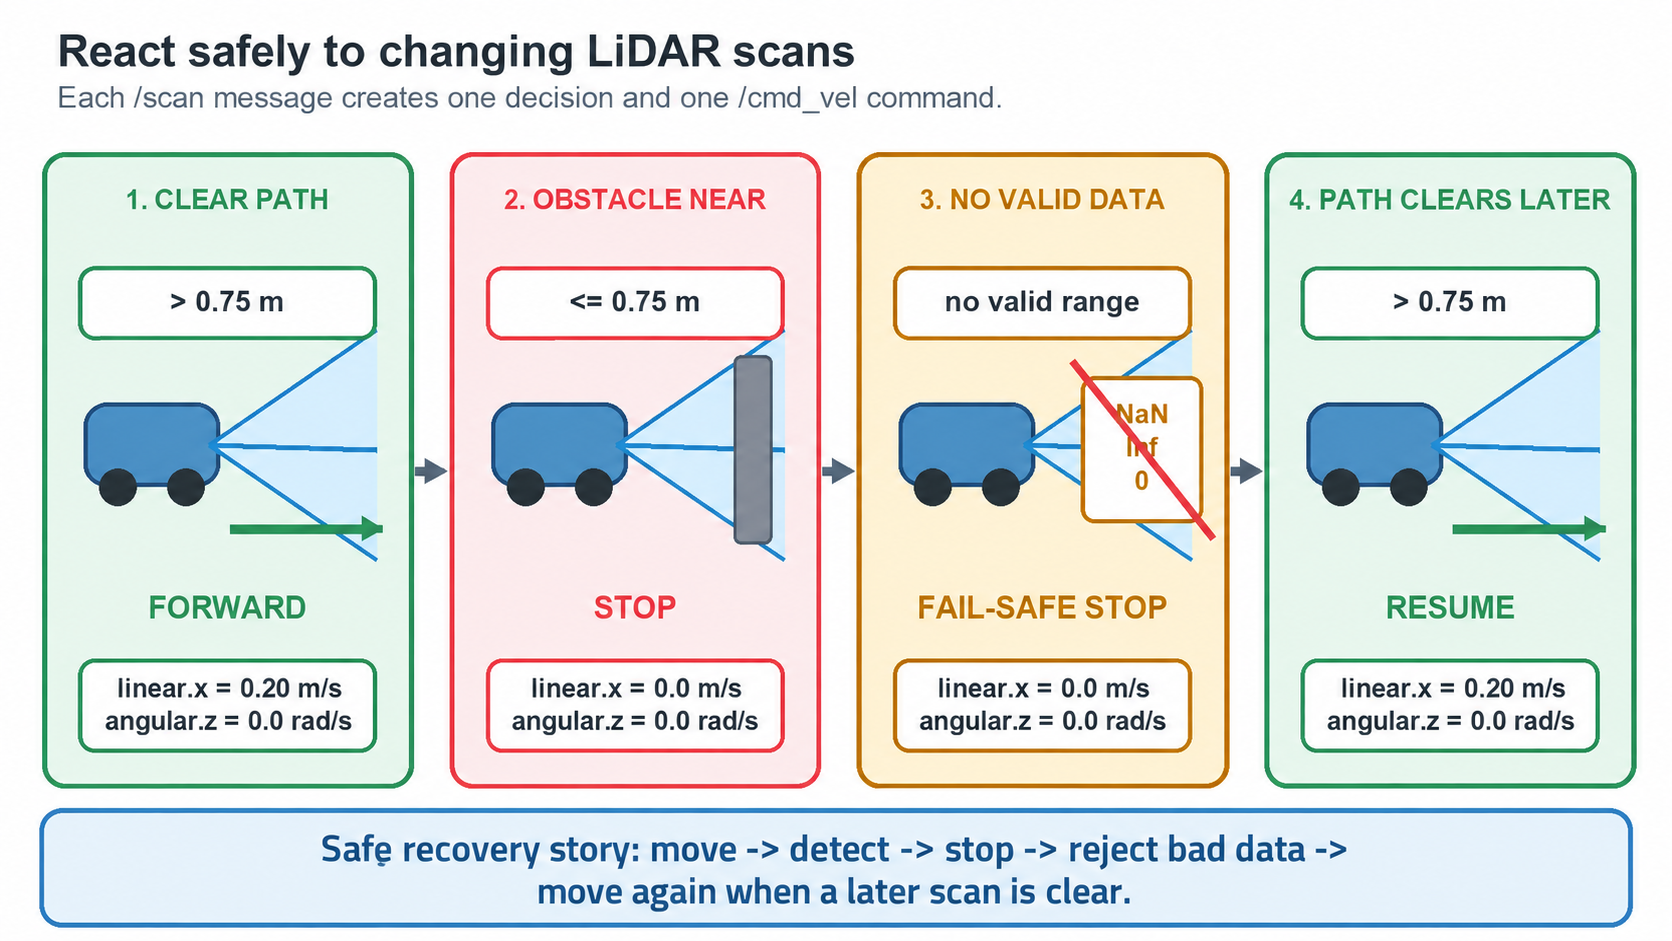
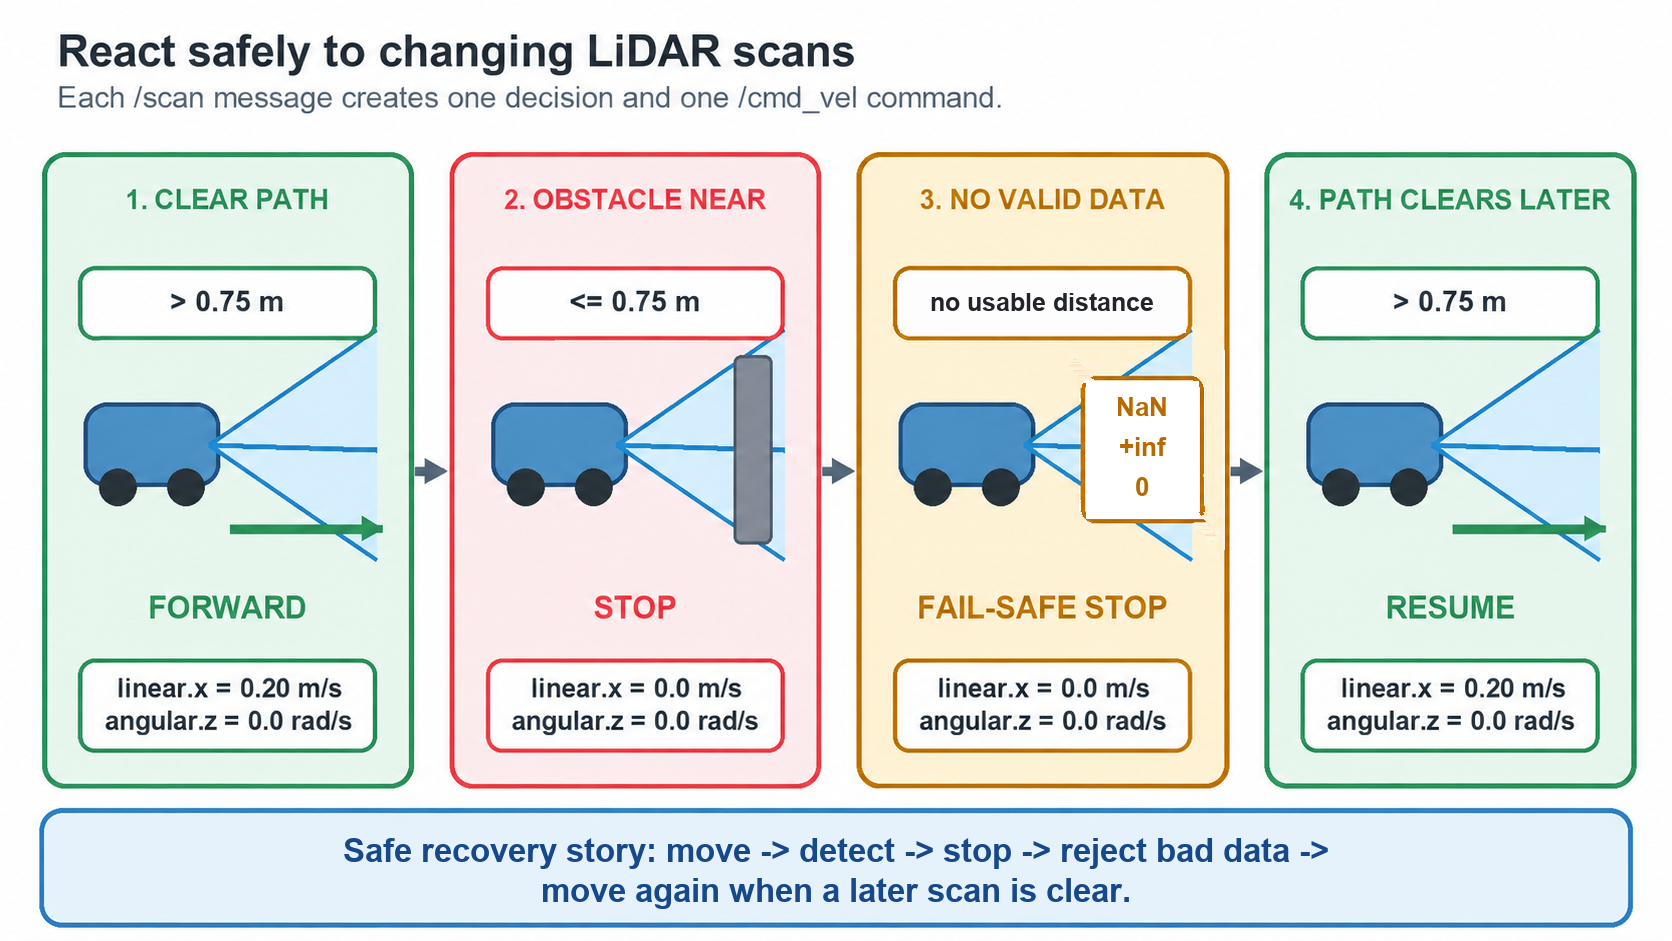
Fix student-facing problems in all six assignments
Correct Assignment 1's Try-it routes, name allowed distance functions,
unify units, and state rounding (A1-A2); explain A2's leave point;
frame A3's detour as an allowance and state simplifications; state A4's
selection rule versus full VFH, the angle convention, and fix the solution
and feedback wording; fix the A5-A6 starter shutdown crash, state allowed
imports and enforced numbers, use no-usable-distance wording, accept
relative topic names, and repair image6. Versions 15, 15, 16, 15, 10, 10.

diff --git a/backend/tests/test_ros2_assignment.py b/backend/tests/test_ros2_assignment.py
@@ -240,6 +240,56 @@ def test_ros2_controller_validation_allows_ros_imports_and_blocks_os():
         validate_controller("import os")
 
 
+def test_ros2_starters_and_answers_pass_import_validation():
+    root = Path(__file__).resolve().parents[2]
+    for number in (5, 6):
+        source = json.loads(
+            (root / "backend" / "assignments" / f"assignment_{number}.json").read_text(encoding="utf-8")
+        )
+        validate_controller(source["starter_code"])
+        validate_controller((root / source["reference_solution_path"]).read_text(encoding="utf-8"))
+
+
+def test_callback_audit_treats_relative_topic_names_as_absolute():
+    import os
+    from ros2_callback_audit import instrument
+
+    class FakePublisher:
+        def __init__(self, topic_name):
+            self.topic_name = topic_name
+
+        def publish(self, message):
+            return None
+
+    class FakeNode:
+        def create_timer(self, period, callback, *args, **kwargs):
+            return callback
+
+        def create_subscription(self, msg_type, topic_name, callback, *args, **kwargs):
+            return callback
+
+        def create_publisher(self, msg_type, topic_name, qos_profile, *args, **kwargs):
+            return FakePublisher("/" + topic_name.lstrip("/"))
+
+    read_fd, write_fd = os.pipe()
+    try:
+        instrument(FakeNode, FakePublisher, write_fd, "scan", "/cmd_vel", "/scan")
+        node = FakeNode()
+        publisher = node.create_publisher(object, "cmd_vel", 10)
+        callback = node.create_subscription(
+            object, "scan", lambda _scan: publisher.publish(object()), 10
+        )
+        callback(None)
+        # A relative name is audited, and depth 10 on a relative name is not flagged.
+        assert os.read(read_fd, 64) == b"1\n"
+        wrong_depth = node.create_publisher(object, "cmd_vel", 5)
+        assert wrong_depth.topic_name == "/cmd_vel"
+        assert os.read(read_fd, 64) == b"0\n"
+    finally:
+        os.close(read_fd)
+        os.close(write_fd)
+
+
 def test_ros2_worker_selects_only_known_behavior_harnesses():
     assert select_harness({}) == "/grader/ros2_topic_harness.py"
     assert select_harness({"harness": "obstacle_stop"}) == (
@@ -510,7 +560,7 @@ def test_ros2_assignment_submission_uses_injected_executor(tmp_path):
 
     assert assignment_response.status_code == 200
     assignment_body = assignment_response.json()
-    assert assignment_body["version"] == 9
+    assert assignment_body["version"] == 10
     assert 'src="/images/5"' in assignment_body["assignment_html"]
     assert "src/robot_motion/robot_motion/controller.py" in assignment_body["assignment_html"]
     assert response.status_code == 200
@@ -555,7 +605,7 @@ def test_ros2_obstacle_assignment_submission_uses_behavior_harness(tmp_path):
     assert assignment_response.status_code == 200
     assignment_body = assignment_response.json()
     assert assignment_body["stable_id"] == "ros2-obstacle-stop"
-    assert assignment_body["version"] == 9
+    assert assignment_body["version"] == 10
     assert 'src="/images/6"' in assignment_body["assignment_html"]
     assert "src/reactive_navigation/reactive_navigation/controller.py" in assignment_body["assignment_html"]
     assert assignment_body["editable_file_path"].endswith("controller.py")

diff --git a/backend/tests/test_assignment_instruction_clarity.py b/backend/tests/test_assignment_instruction_clarity.py
@@ -51,9 +51,46 @@ def test_ros_explains_exact_one_and_mixed_scan_behavior():
         assert "Queue depth 10" in instructions
         assert "callback" in instructions
     instructions = source(6)["assignment_html"]
-    assert "Ignore invalid entries, not the whole mixed scan" in instructions
+    assert "Skip only the entries with no usable distance, not the whole mixed scan" in instructions
     assert "2.0 m" in instructions
     assert "Invalid sensor data must never cause forward motion" not in instructions
+
+
+def test_ros_states_import_allowlist_shutdown_and_measured_numbers():
+    for number in (5, 6):
+        data = source(number)
+        instructions = data["assignment_html"]
+        assert ("may import only <code>rclpy</code>, <code>geometry_msgs</code>, "
+                "<code>sensor_msgs</code>, and <code>math</code>") in instructions
+        assert "TwistStamped" in instructions
+        starter = data["starter_code"]
+        assert "from rclpy.executors import ExternalShutdownException" in starter
+        assert "except (KeyboardInterrupt, ExternalShutdownException):" in starter
+        assert "rclpy.try_shutdown()" in starter
+        assert "rclpy.shutdown()" not in starter
+        package_xml = next(item["content"] for item in data["asset_manifest"]
+                           if item["path"].endswith("package.xml"))
+        assert "ament_pytest" not in package_xml
+        for dependency in ("<exec_depend>launch</exec_depend>",
+                           "<exec_depend>launch_ros</exec_depend>",
+                           "<test_depend>python3-pytest</test_depend>"):
+            assert dependency in package_xml
+    drive = source(5)["assignment_html"]
+    assert "do not import <code>time</code>" in drive
+    for number_text in ("about 8 seconds", "at least 5 commands per second",
+                        "0.20 &plusmn; 0.02 m/s", "&plusmn;0.01 rad/s", "&plusmn;0.001",
+                        "between 4.5 and 5.5 seconds", "do not add extra timers",
+                        "passing the integer 10"):
+        assert number_text in drive
+    obstacle = source(6)["assignment_html"]
+    assert "and one Twist decision per scan" in obstacle
+    assert "and timing" not in obstacle
+    for number_text in ("about 0.8 seconds", "about 0.25 seconds",
+                        "at least 3 commands per second", "do not filter beams by angle"):
+        assert number_text in obstacle
+    # Positive infinity is a conservative "no usable distance" rule, not "invalid".
+    assert "no usable distance" in obstacle
+    assert "nothing was detected within range" in obstacle
 
 
 def test_tutor_review_versions_match_current_assignment_contracts():

diff --git a/backend/tests/test_classroom_readiness.py b/backend/tests/test_classroom_readiness.py
@@ -134,7 +134,7 @@ def test_assignment_4_exposes_the_complete_deterministic_lidar_model(tmp_path):
     assert "3 through 357" in instructions
     assert "80 through 100" in instructions
     assert "smallest density, not the smallest distance" in instructions
-    assert assignment["version"] == 14
+    assert assignment["version"] == 15
     assert 'src="/images/4"' in instructions
     assert "analyze_vfh" in assignment["starter_code"]
 
@@ -204,7 +204,7 @@ def test_assignment_2_uses_explicit_hit_and_leave_geometry(tmp_path):
     assert "H -&gt; A -&gt; B -&gt; L" in instructions
     assert "Do not use the upper boundary or the full obstacle perimeter" in instructions
     assert "C, D" not in instructions
-    assert assignment["version"] == 14
+    assert assignment["version"] == 15
     assert 'src="/images/2"' in instructions
     assert "calculate_bug_route" in assignment["starter_code"]
     assert old_three_edge_model.status_code == 200
@@ -244,7 +244,7 @@ def test_assignment_3_includes_the_complete_floor_to_floor_route(tmp_path):
     instructions = assignment["assignment_html"]
     assert "S -&gt; M1 -&gt; M2 -&gt; E_m" in instructions
     assert "floor-10 path / speed" in instructions
-    assert assignment["version"] == 15
+    assert assignment["version"] == 16
     assert 'src="/images/3"' in instructions
     assert "path_from_E_m_to_goal" in assignment["starter_code"]
     assert "path_from_E_s_to_goal" in assignment["starter_code"]
@@ -291,7 +291,7 @@ def test_assignment_1_uses_valid_bug2_m_line_intersections(tmp_path):
     assert "H = (4, 11/3)" in instructions
     assert "L = (23/4, 6)" in instructions
     assert "H and L both lie on the m-line" in instructions
-    assert assignment["version"] == 14
+    assert assignment["version"] == 15
     assert 'src="/images/1"' in instructions
     assert "Coordinate diagram showing the cleaning robot route" in instructions
     assert "calculate_bug2_route" in assignment["starter_code"]

diff --git a/backend/ros2_callback_audit.py b/backend/ros2_callback_audit.py
@@ -65,8 +65,16 @@ def summarize_student_failure(stderr, returncode):
     return "\n".join([summary, *other]) if other else summary
 
 
+def absolute_topic(name):
+    """Compare relative and absolute names alike; the student node has no namespace."""
+    name = str(name)
+    return name if name.startswith("/") else "/" + name
+
+
 def instrument(node_class, publisher_class, report_fd, kind, topic, scan_topic):
     active = ContextVar("command_callback", default=None)
+    topic = absolute_topic(topic)
+    scan_topic = absolute_topic(scan_topic)
     original_publish = publisher_class.publish
     original_timer = node_class.create_timer
     original_subscription = node_class.create_subscription
@@ -80,7 +88,7 @@ def instrument(node_class, publisher_class, report_fd, kind, topic, scan_topic):
 
     def publish(publisher, message):
         counter = active.get()
-        if counter is not None and publisher.topic_name == topic:
+        if counter is not None and absolute_topic(publisher.topic_name) == topic:
             counter[0] += 1
         return original_publish(publisher, message)
 
@@ -106,12 +114,12 @@ def instrument(node_class, publisher_class, report_fd, kind, topic, scan_topic):
         return original_timer(node, timer_period_sec, callback, *args, **kwargs)
 
     def subscription(node, msg_type, topic_name, callback, *args, **kwargs):
-        if kind == "scan" and topic_name == scan_topic:
+        if kind == "scan" and absolute_topic(topic_name) == scan_topic:
             callback = audited(callback)
         return original_subscription(node, msg_type, topic_name, callback, *args, **kwargs)
 
     def create_publisher(node, msg_type, topic_name, qos_profile, *args, **kwargs):
-        if topic_name == topic:
+        if absolute_topic(topic_name) == topic:
             depth = qos_profile if isinstance(qos_profile, int) else qos_profile.depth
             if depth != 10:
                 report(False)

diff --git a/backend/ros2_obstacle_harness.py b/backend/ros2_obstacle_harness.py
@@ -63,9 +63,16 @@ def main() -> None:
         scan = LaserScan()
         scan.header.stamp = monitor.get_clock().now().to_msg()
         scan.header.frame_id = "laser"
-        scan.angle_min = -0.5
-        scan.angle_max = 0.5
-        scan.angle_increment = 1.0 / max(len(ranges) - 1, 1)
+        # Keep the angle metadata consistent with the beam count: one beam
+        # points straight ahead; several beams span [-0.5, 0.5] evenly.
+        if len(ranges) > 1:
+            scan.angle_min = -0.5
+            scan.angle_increment = 1.0 / (len(ranges) - 1)
+            scan.angle_max = scan.angle_min + scan.angle_increment * (len(ranges) - 1)
+        else:
+            scan.angle_min = 0.0
+            scan.angle_max = 0.0
+            scan.angle_increment = 0.0
         scan.range_min = 0.05
         scan.range_max = 10.0
         scan.ranges = ranges
@@ -212,7 +219,7 @@ def main() -> None:
             clear_ok,
             "Clear-path forward velocity is correct."
             if clear_ok
-            else "Set linear.x to 0.20 m/s when every valid obstacle distance is greater than the stop threshold.",
+            else "Set linear.x to 0.20 m/s when every usable obstacle distance is greater than the stop threshold.",
         ),
         result(
             "obstacle-stop",
@@ -224,9 +231,9 @@ def main() -> None:
         result(
             "invalid-scan-stop",
             invalid_ok,
-            "The robot stops when the scan has no valid positive distance."
+            "The robot stops when the scan has no usable distance."
             if invalid_ok
-            else "Move forward on a clear scan, and treat a scan with no finite positive distance as unsafe by publishing zero velocity.",
+            else "Move forward on a clear scan, and stop (publish zero velocity) when the scan has no usable distance: no finite reading greater than zero.",
         ),
         result(
             "straight-motion",

diff --git a/backend/tests/test_app.py b/backend/tests/test_app.py
@@ -334,7 +334,7 @@ def test_lists_all_assignments_in_numeric_order_without_private_fields(client):
     assert response.status_code == 200
     assignments = response.json()["assignments"]
     assert [assignment["id"] for assignment in assignments] == [1, 2, 3, 4, 5, 6]
-    assert [assignment["version"] for assignment in assignments] == [14, 14, 15, 14, 9, 9]
+    assert [assignment["version"] for assignment in assignments] == [15, 15, 16, 15, 10, 10]
     assert all(assignment["stable_id"] for assignment in assignments)
     assert all(assignment["solution_html"] == "" for assignment in assignments)
     assert all(assignment["vals"] == {} for assignment in assignments)
@@ -427,7 +427,7 @@ def test_correct_submission_passes_and_records_assignment_version(client):
     assert body["pass"] is True
     assert body["ex_success"] is True
     assert body["execution_status"] == "completed"
-    assert body["assignment_version"] == 14
+    assert body["assignment_version"] == 15
     assert body["submission_id"]
     assert body["unittest_pass_results"] == [True, True, True, True]
     assert body["hint"] == ""

diff --git a/assignments_answers/assignment_6_ros2_obstacle_stop/controller.py b/assignments_answers/assignment_6_ros2_obstacle_stop/controller.py
@@ -2,6 +2,7 @@ import math
 
 import rclpy
 from geometry_msgs.msg import Twist
+from rclpy.executors import ExternalShutdownException
 from rclpy.node import Node
 from sensor_msgs.msg import LaserScan
 
@@ -42,11 +43,11 @@ def main(args=None):
     controller = ObstacleStopController()
     try:
         rclpy.spin(controller)
-    except KeyboardInterrupt:
+    except (KeyboardInterrupt, ExternalShutdownException):
         pass
     finally:
         controller.destroy_node()
-        rclpy.shutdown()
+        rclpy.try_shutdown()
 
 
 if __name__ == '__main__':

diff --git a/assignments_answers/assignment_5_ros2_drive_forward/controller.py b/assignments_answers/assignment_5_ros2_drive_forward/controller.py
@@ -1,4 +1,5 @@
 import rclpy
+from rclpy.executors import ExternalShutdownException
 from rclpy.node import Node
 from geometry_msgs.msg import Twist
 
@@ -29,12 +30,11 @@ def main(args=None):
     controller = RobotController()
     try:
         rclpy.spin(controller)
-    except KeyboardInterrupt:
+    except (KeyboardInterrupt, ExternalShutdownException):
         pass
     finally:
         controller.destroy_node()
-        if rclpy.ok():
-            rclpy.shutdown()
+        rclpy.try_shutdown()
 
 
 if __name__ == '__main__':

diff --git a/backend/tests/test_assignment_repository.py b/backend/tests/test_assignment_repository.py
@@ -30,7 +30,7 @@ def test_newer_seed_versions_upgrade_existing_local_assignments():
         AssignmentRepository(session).sync_seed_assignments()
 
         assignments = AssignmentRepository(session).list_all()
-        assert [item.version for item in assignments] == [14, 14, 15, 14, 9, 9]
+        assert [item.version for item in assignments] == [15, 15, 16, 15, 10, 10]
         for assignment in assignments:
             assert assignment.data_schema_version == 1
             assert assignment.execution_settings["runtime"]

diff --git a/backend/tests/test_auth.py b/backend/tests/test_auth.py
@@ -567,7 +567,7 @@ def test_assignment_attempt_and_instructor_action_are_persisted_for_audit(
             select(AuditEvent).where(AuditEvent.action == "student.created")
         )
         assert submission.student_id == "audit-attempt-student"
-        assert submission.assignment_version == 14
+        assert submission.assignment_version == 15
         assert submission.evidence["tests"]
         assert audit_event.actor_user_id == instructor["user"]["id"]
 

diff --git a/backend/tests/test_sandbox_service.py b/backend/tests/test_sandbox_service.py
@@ -140,4 +140,4 @@ def test_backend_grades_through_real_remote_sandbox_contract(
 
     assert response.status_code == 200
     assert response.json()["pass"] is True
-    assert response.json()["assignment_version"] == 14
+    assert response.json()["assignment_version"] == 15
